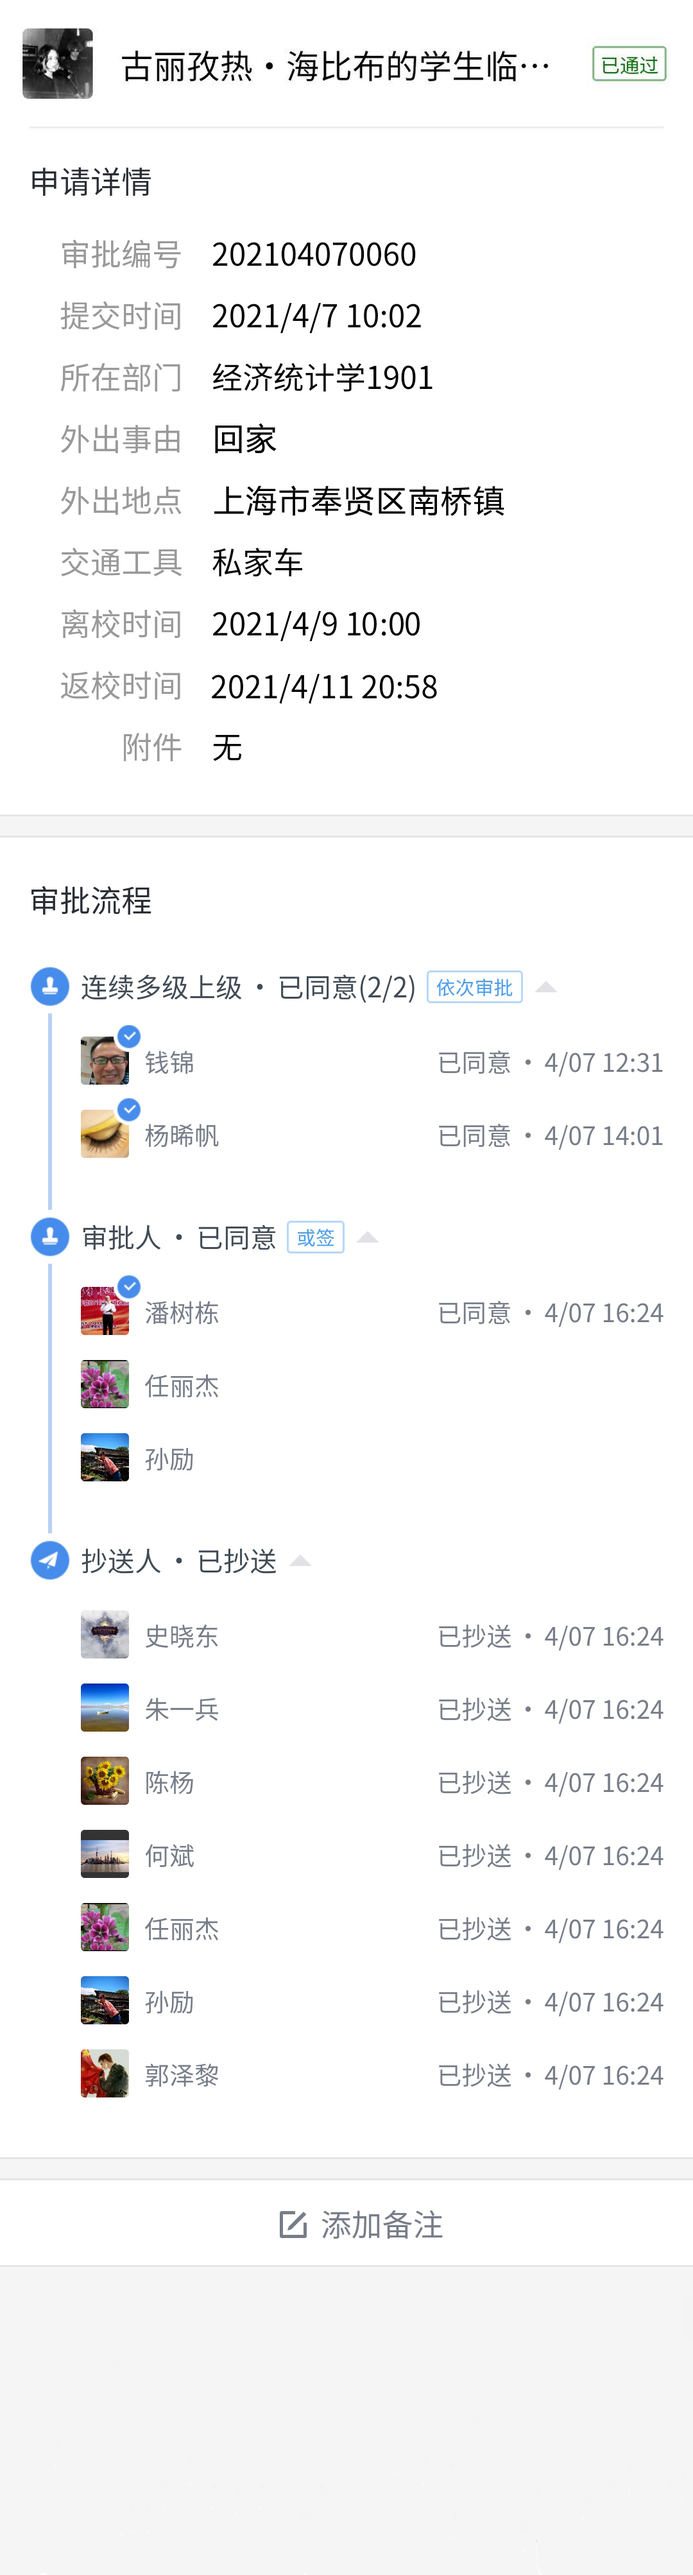
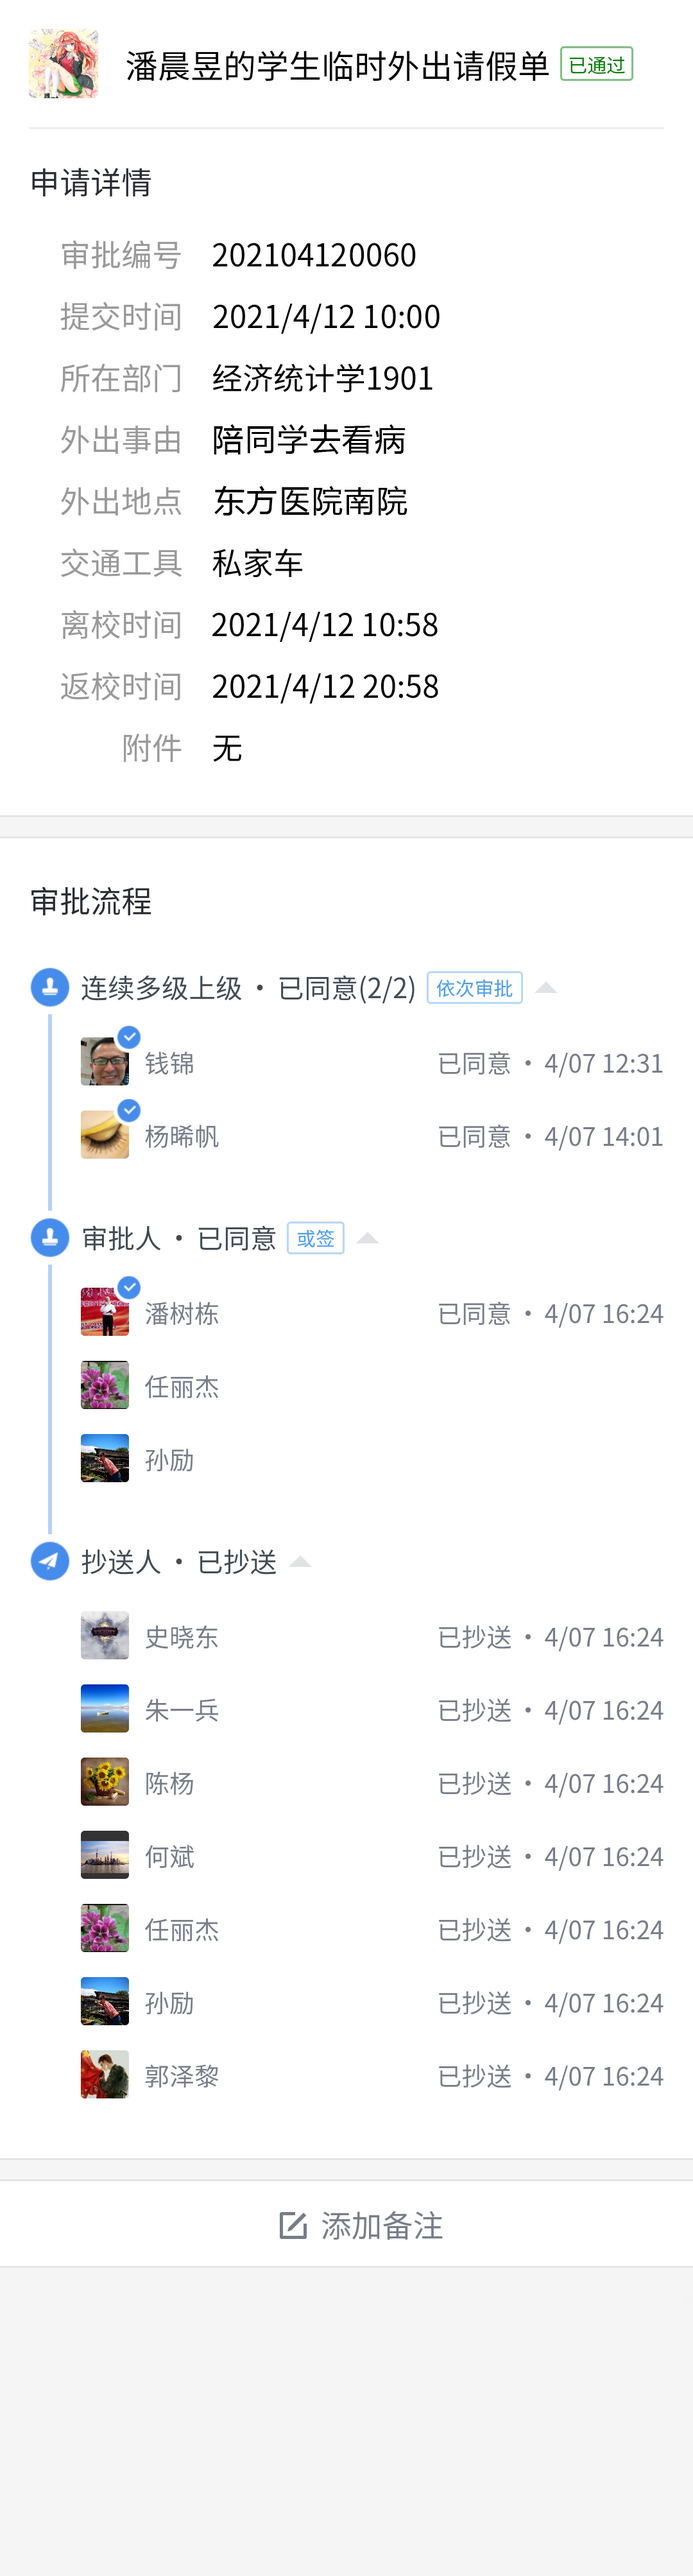
Add files via upload

diff --git a/f/fqcs.html b/f/fqcs.html
@@ -1,0 +1,40 @@
+<!doctype html>
+<html>
+<head>
+<meta charset="utf-8">
+<meta name="viewport" content="width=divice-width,initial-scale=1">
+<title>学生临时外出请假单</title>
+<link rel="stylesheet" type="text/css" href="CSS/adapter.css">
+<link rel="stylesheet" type="text/css" href="CSS/global.css">
+<link rel="stylesheet" type="text/css" href="CSS/index.css">
+<style type="text/css">
+<!--
+.tabs div a {
+	font-size: 36px;
+}
+-->
+</style>
+</head>
+
+<body>
+<!--轮播图-->
+<div class="slider">
+	<ul>
+		<li>
+			<a href="#">
+				<img src="images/pcy.jpg">
+			</a>
+		</li>
+	</ul>
+</div>
+<!--底部导航-->
+<div class="tabs">
+	<ul>
+		<li>
+			<img src="images/222.jpg">
+		</li>
+	</ul>
+</div>
+	
+</body>
+</html>

diff --git a/f/CSS/adapter.css b/f/CSS/adapter.css
@@ -1,0 +1,9 @@
+@media only screen and(width:360px){
+	html{font-size:14.4px;}
+}
+@media only screen and(width:375px){
+	html{font-size:15px;}
+}
+@media only screen and(width:414px){
+	html{font-size:16.56px;}
+}

diff --git a/f/CSS/index.css b/f/CSS/index.css
@@ -1,0 +1,9 @@
+.tabs{
+	width:100%;
+	position:fixed;
+	bottom:0;
+	height:7rem;
+	background-color: #FFFFFF;
+	font-weight: bold;
+	font-size: 36px;
+}

diff --git a/f/CSS/global.css b/f/CSS/global.css
@@ -1,0 +1,4 @@
+ul{list-style-type: none;}
+ul,body{margin: 0px;
+padding: 0px}
+img{width:100%}
